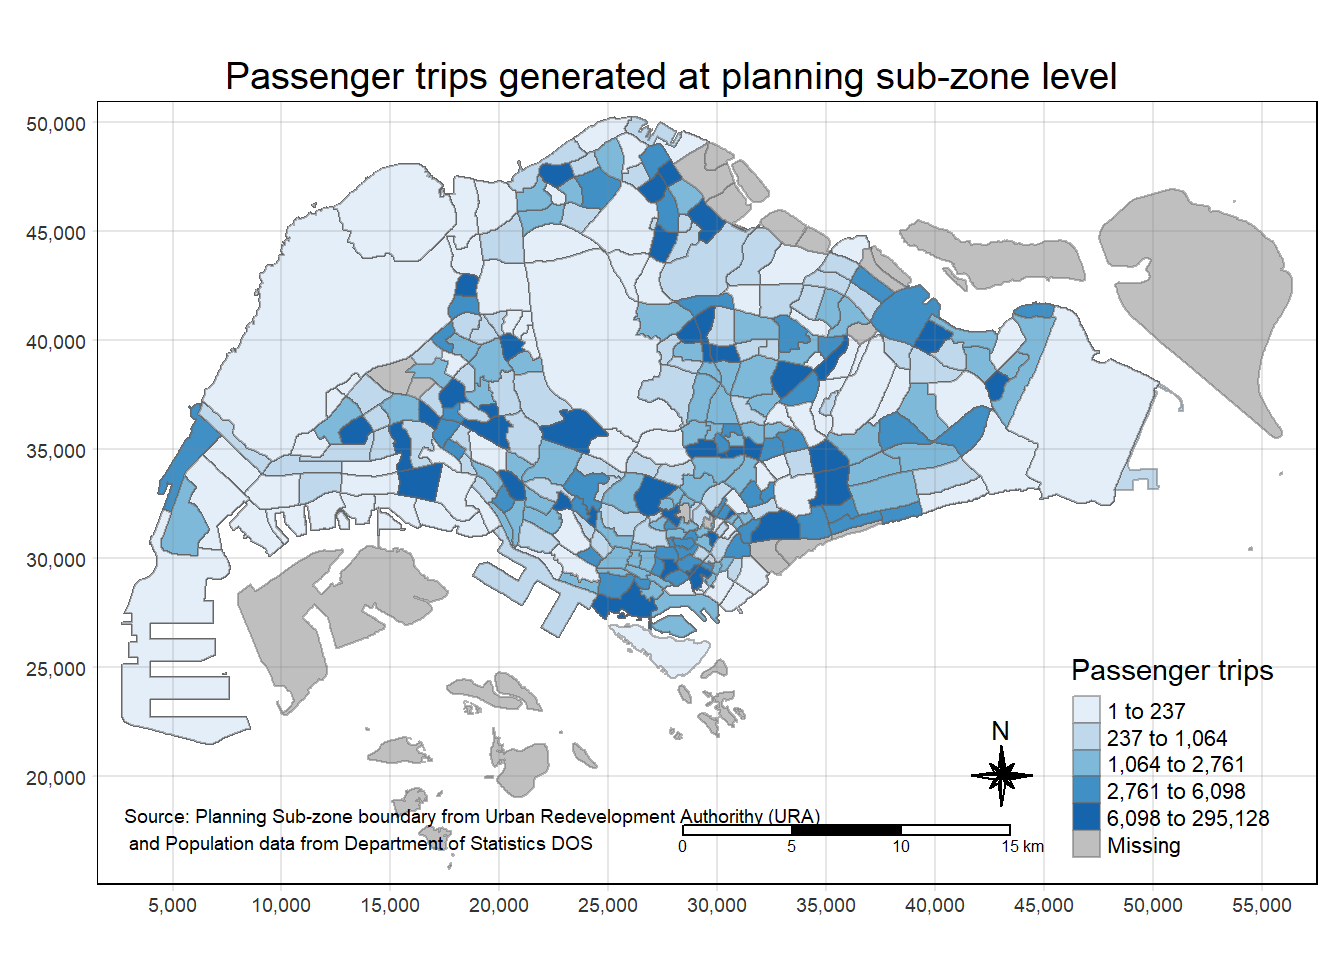
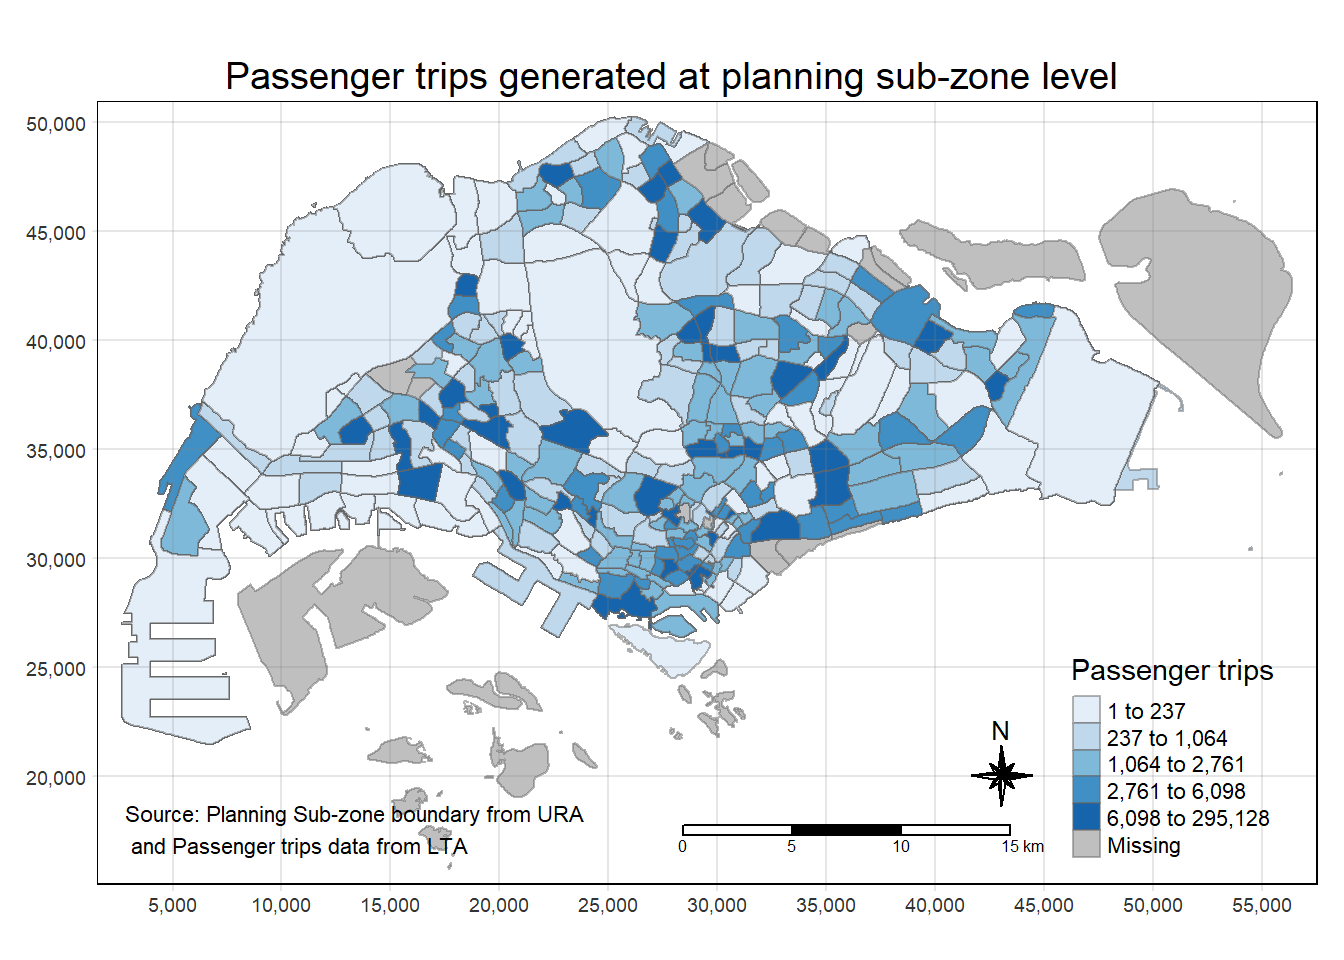
Commit after edited the footnote.

Changed region(s): [[0.0938, 0.8438, 0.625, 0.9062]]

diff --git a/_site/In-class_Ex/In-class_Ex1/In-class_ex1.html b/_site/In-class_Ex/In-class_Ex1/In-class_ex1.html
@@ -597,7 +597,7 @@ Note
 <span id="cb26-13"><a href="#cb26-13" aria-hidden="true" tabindex="-1"></a>  <span class="fu">tm_compass</span>(<span class="at">type=</span><span class="st">"8star"</span>, <span class="at">size =</span> <span class="dv">2</span>) <span class="sc">+</span></span>
 <span id="cb26-14"><a href="#cb26-14" aria-hidden="true" tabindex="-1"></a>  <span class="fu">tm_scale_bar</span>() <span class="sc">+</span></span>
 <span id="cb26-15"><a href="#cb26-15" aria-hidden="true" tabindex="-1"></a>  <span class="fu">tm_grid</span>(<span class="at">alpha =</span><span class="fl">0.2</span>) <span class="sc">+</span></span>
-<span id="cb26-16"><a href="#cb26-16" aria-hidden="true" tabindex="-1"></a>  <span class="fu">tm_credits</span>(<span class="st">"Source: Planning Sub-zone boundary from Urban Redevelopment Authorithy (URA)</span><span class="sc">\n</span><span class="st"> and Population data from Department of Statistics DOS"</span>, </span>
+<span id="cb26-16"><a href="#cb26-16" aria-hidden="true" tabindex="-1"></a>  <span class="fu">tm_credits</span>(<span class="st">"Source: Planning Sub-zone boundary from URA</span><span class="sc">\n</span><span class="st"> and Passenger trips data from LTA"</span>, </span>
 <span id="cb26-17"><a href="#cb26-17" aria-hidden="true" tabindex="-1"></a>             <span class="at">position =</span> <span class="fu">c</span>(<span class="st">"left"</span>, <span class="st">"bottom"</span>))</span></code><button title="Copy to Clipboard" class="code-copy-button"><i class="bi"></i></button></pre></div>
 <div class="cell-output-display">
 <p><img src="In-class_Ex1_files/figure-html/unnamed-chunk-20-1.png" class="img-fluid" width="672"></p>
